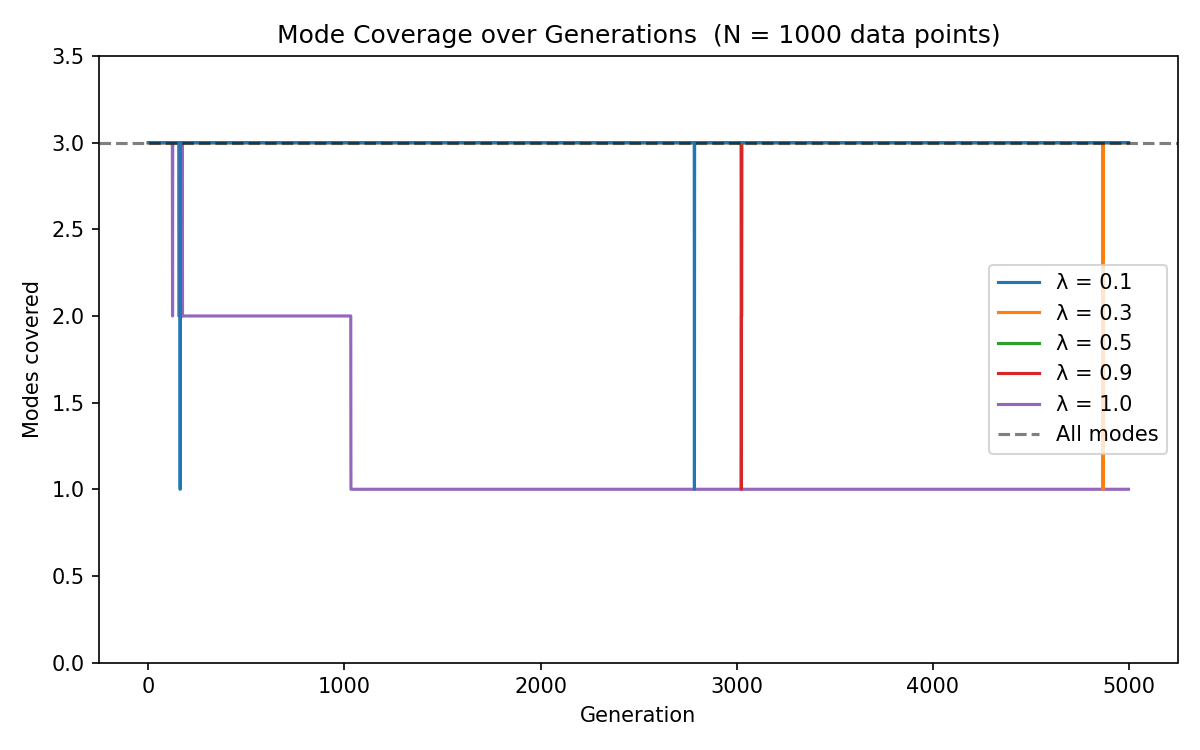
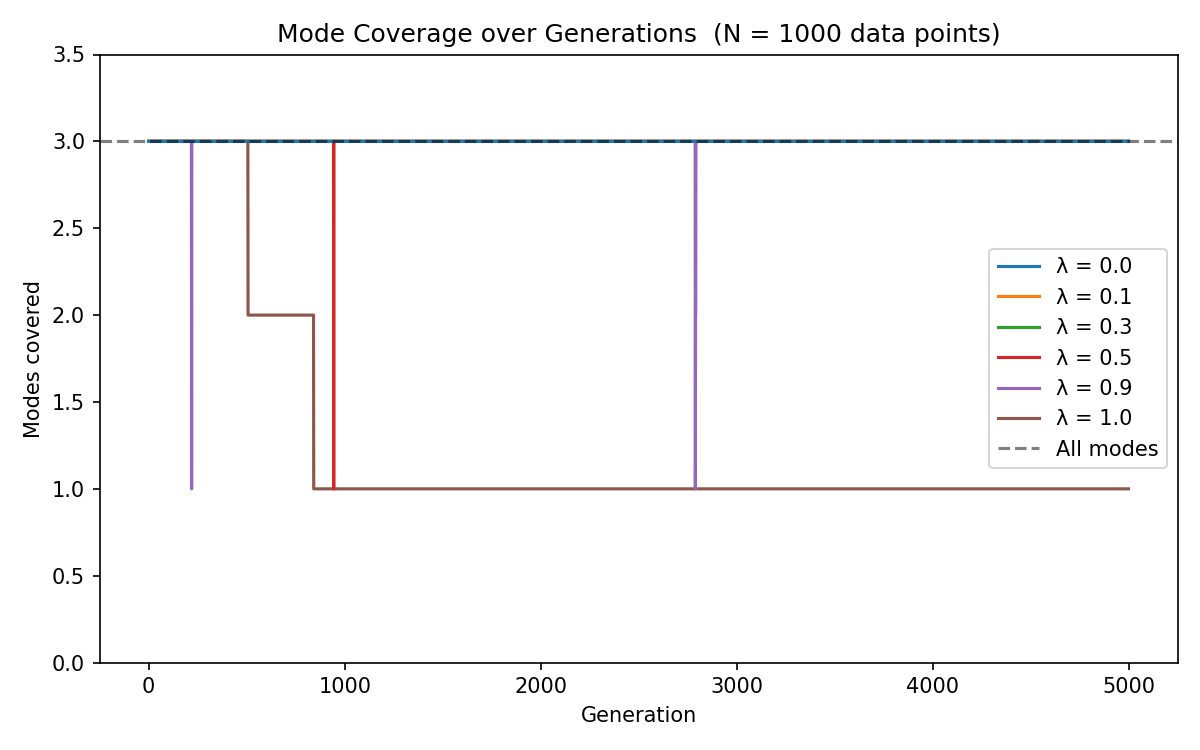
added extra gmm functionality

diff --git a/find_best_lambda.py b/find_best_lambda.py
@@ -1,0 +1,157 @@
+#!/opt/miniconda3/envs/edm/bin/python
+"""
+Iterative lambda search for GMM model collapse.
+
+Each iteration:
+  1. Evaluate N_CANDIDATES lambda values (initially spread across [0, 1]).
+  2. Score each: lambda / MSE(sample_variance, initial_var).
+  3. Pick the best lambda.
+  4. Place N_CANDIDATES new candidates in a shrinking window around the best.
+  5. Repeat for N_ITERATIONS iterations.
+
+Shares the same GMM setup as gmm.py:
+  N=1000, DIM=1, ACCUMULATE=False, TRUE_MEAN=[5], TRUE_VAR=[[2]]
+"""
+
+import os
+os.environ["OMP_NUM_THREADS"] = "4"
+
+import numpy as np
+import matplotlib.pyplot as plt
+from sklearn.mixture import GaussianMixture
+
+# ---------------------------------------------------------------------------
+# Configuration
+# ---------------------------------------------------------------------------
+N              = 1000       # real data points
+EVAL_GENS      = 5000       # generations to run per candidate evaluation
+N_CANDIDATES   = 4          # lambdas to test per iteration
+N_ITERATIONS   = 5          # how many times to zoom in
+WINDOW_SHRINK  = 0.5        # each iteration the search window multiplies by this
+N_SEEDS        = 3          # independent runs per candidate; MSE is averaged to reduce noise
+
+TRUE_MEAN = np.array([5.0])
+TRUE_VAR  = np.array([[2.0]])
+
+# ---------------------------------------------------------------------------
+# Generate real data (fixed seed for reproducibility)
+# ---------------------------------------------------------------------------
+rng = np.random.default_rng(42)
+real_data = rng.multivariate_normal(TRUE_MEAN, TRUE_VAR, N)
+initial_var = float(real_data.var())
+
+print(f"Initial sample variance: {initial_var:.4f}  (true: {TRUE_VAR[0,0]})")
+
+# ---------------------------------------------------------------------------
+# Evaluation function
+# ---------------------------------------------------------------------------
+
+def _run_one_seed(lam: float, seed: int) -> float:
+    """Single seeded run; returns MSE of sample variance over EVAL_GENS generations."""
+    rng_s = np.random.default_rng(seed)
+    data = real_data.copy()
+    n_syn = int(N * lam)
+    real_sub = real_data[: N - n_syn].copy() if n_syn > 0 else None
+
+    vars_trace = []
+    for _ in range(EVAL_GENS):
+        vars_trace.append(float(data.var()))
+        g = GaussianMixture(n_components=1, max_iter=200, tol=1e-6, covariance_type="full",
+                            random_state=rng_s.integers(1 << 31).item())
+        g.fit(data)
+        if n_syn == 0:
+            data = real_data.copy()
+        else:
+            syn, _ = g.sample(n_syn)
+            data = np.vstack([real_sub, syn])
+
+    return float(np.mean((np.array(vars_trace) - initial_var) ** 2))
+
+
+def evaluate(lam: float) -> tuple[float, float]:
+    """
+    Average MSE over N_SEEDS independent runs to get a stable score.
+    Returns (mean_mse, score) where score = lam / (mean_mse + 1e-9).
+    Higher score is better: rewards high lambda with low variance drift.
+    """
+    mses = [_run_one_seed(lam, seed=s) for s in range(N_SEEDS)]
+    mean_mse = float(np.mean(mses))
+    score = lam / (mean_mse + 1e-9)
+    return mean_mse, score
+
+# ---------------------------------------------------------------------------
+# Iterative search
+# ---------------------------------------------------------------------------
+lo, hi = 0.0, 1.0
+best_lam = None
+history = []   # list of dicts per iteration
+
+print(f"\n{'='*55}")
+print(f"Iterative lambda search  ({N_ITERATIONS} iterations × {N_CANDIDATES} candidates)")
+print(f"{'='*55}")
+
+for it in range(N_ITERATIONS):
+    candidates = list(np.linspace(lo, hi, N_CANDIDATES))
+    results = []
+
+    print(f"\n--- Iteration {it+1}  search range [{lo:.4f}, {hi:.4f}] ---")
+    for lam in candidates:
+        mse, score = evaluate(lam)
+        results.append({"lam": lam, "mse": mse, "score": score})
+        print(f"  λ={lam:.4f}  mse={mse:.6f}  score={score:.4f}", flush=True)
+
+    best = max(results, key=lambda r: r["score"])
+    best_lam = best["lam"]
+    print(f"  -> best: λ={best_lam:.4f}  (score={best['score']:.4f})")
+
+    history.append({"iteration": it + 1, "candidates": results, "best_lam": best_lam, "lo": lo, "hi": hi})
+
+    # Shrink window around best lambda for next iteration
+    half = (hi - lo) * WINDOW_SHRINK / 2
+    lo = max(0.0, best_lam - half)
+    hi = min(1.0, best_lam + half)
+
+print(f"\n{'='*55}")
+print(f"Final best lambda: {best_lam:.4f}")
+print(f"{'='*55}\n")
+
+# ---------------------------------------------------------------------------
+# Plot
+# ---------------------------------------------------------------------------
+fig, axes = plt.subplots(1, 2, figsize=(13, 5))
+fig.suptitle(f"Iterative λ Search  (N={N}, {EVAL_GENS} eval gens/candidate)\nFinal best λ = {best_lam:.4f}")
+
+colors = plt.cm.plasma(np.linspace(0.1, 0.9, N_ITERATIONS))
+
+# Left: score vs lambda per iteration
+ax_score = axes[0]
+for entry in history:
+    lams   = [r["lam"]   for r in entry["candidates"]]
+    scores = [r["score"] for r in entry["candidates"]]
+    it_num = entry["iteration"]
+    ax_score.plot(lams, scores, marker="o", color=colors[it_num - 1], label=f"Iter {it_num}")
+    ax_score.axvline(entry["best_lam"], color=colors[it_num - 1], linestyle=":", alpha=0.5)
+ax_score.set_xlabel("λ")
+ax_score.set_ylabel("Score  (λ / MSE)")
+ax_score.set_xlim(0, 1)
+ax_score.legend(fontsize=8)
+ax_score.set_title("Score vs λ  (each iteration)")
+
+# Right: MSE vs lambda per iteration
+ax_mse = axes[1]
+for entry in history:
+    lams = [r["lam"] for r in entry["candidates"]]
+    mses = [r["mse"] for r in entry["candidates"]]
+    it_num = entry["iteration"]
+    ax_mse.plot(lams, mses, marker="o", color=colors[it_num - 1], label=f"Iter {it_num}")
+    ax_mse.axvline(entry["best_lam"], color=colors[it_num - 1], linestyle=":", alpha=0.5)
+ax_mse.set_xlabel("λ")
+ax_mse.set_ylabel("MSE(sample variance)")
+ax_mse.set_xlim(0, 1)
+ax_mse.legend(fontsize=8)
+ax_mse.set_title("MSE vs λ  (each iteration)")
+
+fig.tight_layout()
+fig.savefig("find_best_lambda.png", dpi=150)
+print("  -> Saved find_best_lambda.png")
+plt.show()

diff --git a/gmm.py b/gmm.py
@@ -35,9 +35,20 @@ if __name__ == "__main__":
     # --- Configuration ---
     N = 1000  # Number of real data points
     N_GENERATIONS = 5000
-    LAMBDA_VALUES = [0.1, 0.3, 0.5, 0.9, 1.0]
+    LAMBDA_VALUES = [0, 0.1, 0.3, 0.5, 0.9, 1]
     ACCUMULATE = False  # True: append λ*N synthetic points; False: substitute
-    DIM = 2  # 1: 1D Gaussian;  2: 2D multi-modal GMM
+    DIM = 1  # 1: 1D Gaussian;  2: 2D multi-modal GMM
+
+    # --- Recursive lambda search ---
+    # Round 1: evaluate 4 candidates evenly spaced in [0, 1].
+    # Each candidate runs for TUNE_EVAL_GENS generations; score = lambda * (mean_var / initial_var).
+    # Best candidate becomes the centre of a narrower range for the next round.
+    # Repeats for TUNE_ROUNDS rounds, converging on the highest lambda with least collapse.
+    TUNE_LAMBDA = True
+    TUNE_ROUNDS = 5
+    TUNE_N_CANDIDATES = 4
+    TUNE_EVAL_GENS = 200    # generations to evaluate each candidate
+    TUNE_THRESHOLD = 0.90   # variance must stay >= this fraction of initial variance
 
     # --- 1D true distribution (used when DIM=1) ---
     TRUE_MEAN_1D = np.array([5.0])
@@ -111,10 +122,13 @@ if __name__ == "__main__":
                 )
 
             # Generate and update dataset
-            synthetic_data, _ = gmm.sample(n_synthetic)
-            if ACCUMULATE:
+            if n_synthetic == 0:
+                current_data = real_data.copy()
+            elif ACCUMULATE:
+                synthetic_data, _ = gmm.sample(n_synthetic)
                 current_data = np.vstack([current_data, synthetic_data])
             else:
+                synthetic_data, _ = gmm.sample(n_synthetic)
                 current_data = np.vstack([real_subset, synthetic_data])
 
             if gen % 10 == 0 or gen == N_GENERATIONS - 1:
@@ -144,7 +158,7 @@ if __name__ == "__main__":
         )
     ax_var.set_xlabel("Generation")
     ax_var.set_ylabel("Variance" if DIM == 1 else "Mean variance (trace / d)")
-    ax_var.set_ylim(bottom=0)
+    ax_var.set_ylim(0, 4)
     ax_var.set_title(f"Variance over Generations  (N = {N} data points)")
     ax_var.legend()
     fig_var.tight_layout()
@@ -256,5 +270,80 @@ if __name__ == "__main__":
     fig_dist.tight_layout()
     fig_dist.savefig("gmm_distributions.png", dpi=150)
     print("  -> Saved gmm_distributions.png")
+
+    # ---------------------------------------------------------------------------
+    # Recursive lambda search
+    # ---------------------------------------------------------------------------
+    if TUNE_LAMBDA:
+        print("\n--- Recursive lambda search ---", flush=True)
+
+        initial_var = float(real_data.var()) if DIM == 1 else float(np.trace(np.cov(real_data.T)) / DIM)
+
+        def eval_lambda(cand_lam):
+            """Run cand_lam for TUNE_EVAL_GENS generations; return mean variance."""
+            data = real_data.copy()
+            n_syn = int(N * cand_lam)
+            real_sub = real_data[: N - n_syn].copy() if n_syn > 0 and not ACCUMULATE else None
+            vars_run = []
+            for _ in range(TUNE_EVAL_GENS):
+                if DIM == 1:
+                    vars_run.append(float(data.var()))
+                else:
+                    vars_run.append(float(np.trace(np.cov(data.T)) / DIM))
+                g = GaussianMixture(n_components=n_fit, max_iter=200, tol=1e-6, covariance_type="full")
+                g.fit(data)
+                if n_syn == 0:
+                    data = real_data.copy()
+                elif ACCUMULATE:
+                    syn, _ = g.sample(n_syn)
+                    data = np.vstack([data, syn])
+                else:
+                    syn, _ = g.sample(n_syn)
+                    data = np.vstack([real_sub, syn])
+            return vars_run  # return full trace, not just mean
+
+        lo, hi = 0.0, 1.0
+        round_history = []  # list of (candidates, scores, best_lam) per round
+
+        for round_i in range(TUNE_ROUNDS):
+            candidates = list(np.linspace(lo, hi, TUNE_N_CANDIDATES))
+            scores = []
+            for cand_lam in candidates:
+                vars_run = eval_lambda(cand_lam)
+                mse = float(np.mean((np.array(vars_run) - initial_var) ** 2))
+                # Score: highest lambda with lowest variance MSE; avoid div-by-zero
+                score = cand_lam / (mse + 1e-9)
+                scores.append(score)
+                print(f"  round={round_i+1}  λ={cand_lam:.4f}  mse={mse:.6f}  score={score:.4f}", flush=True)
+
+            best_idx = int(np.argmax(scores))
+            best_lam = candidates[best_idx]
+            round_history.append((candidates, scores, best_lam))
+
+            # Narrow range to neighbours of best candidate
+            lo = candidates[max(0, best_idx - 1)]
+            hi = candidates[min(TUNE_N_CANDIDATES - 1, best_idx + 1)]
+
+            print(f"  -> round {round_i+1} best: λ={best_lam:.4f}  new range=[{lo:.4f}, {hi:.4f}]\n", flush=True)
+
+        print(f"\n  -> Final best lambda = {best_lam:.4f}")
+
+        # --- Plot: score vs lambda for each round ---
+        colors = plt.cm.viridis(np.linspace(0.15, 0.9, TUNE_ROUNDS))
+        fig_tune, ax_tune = plt.subplots(figsize=(8, 5))
+        for round_i, (cands, scores, best) in enumerate(round_history):
+            ax_tune.plot(cands, scores, marker="o", color=colors[round_i], label=f"Round {round_i+1}")
+            ax_tune.axvline(best, color=colors[round_i], linestyle=":", alpha=0.5)
+        ax_tune.set_xlabel("λ")
+        ax_tune.set_ylabel("Score  (λ / MSE(sample variance))")
+        ax_tune.set_xlim(0, 1)
+        ax_tune.set_title(
+            f"Recursive λ Search  (N={N}, {TUNE_EVAL_GENS} eval gens/candidate)\n"
+            f"Best λ = {best_lam:.4f}"
+        )
+        ax_tune.legend(fontsize=8)
+        fig_tune.tight_layout()
+        fig_tune.savefig("gmm_tune_lambda.png", dpi=150)
+        print("  -> Saved gmm_tune_lambda.png")
 
     plt.show()

diff --git a/diffusion_model.py b/diffusion_model.py
@@ -62,7 +62,7 @@ N_GENERATIONS     = 10
 
 # Full-scale (server)
 N_IMAGES_FULL     = 50_000   # images to generate per generation
-DURATION_FULL     = 50.0     # training duration in million images (Mimg)
+DURATION_FULL     = 25.0     # training duration in million images (Mimg)
 BATCH_FULL        = 512
 
 # Local test
